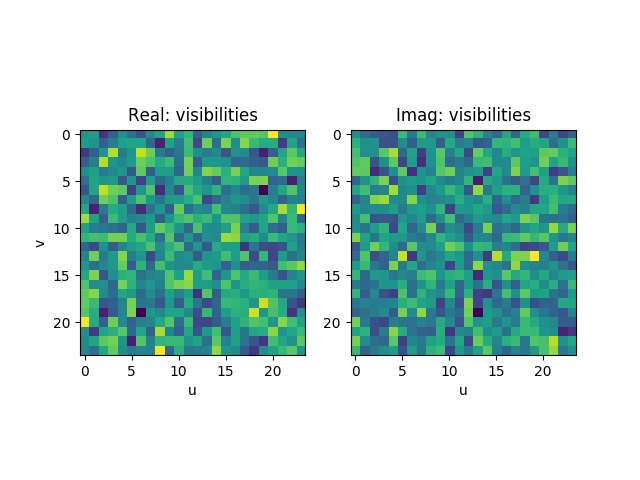
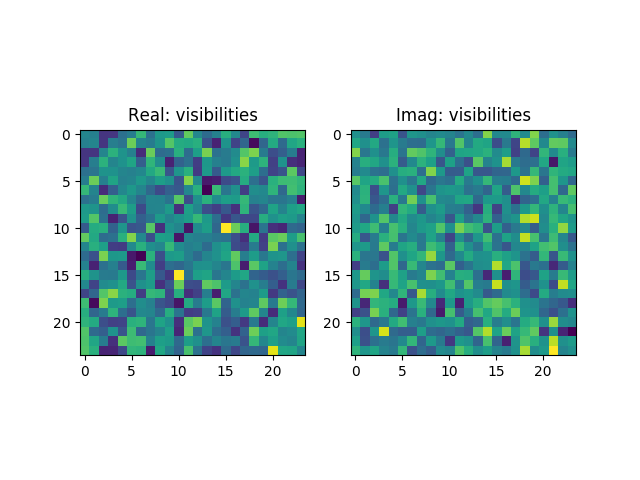
image still green, now using visibilities however

Changed region(s): [[0.125, 0.25, 0.5, 0.75], [0.5312, 0.25, 0.9062, 0.75]]

diff --git a/Pipeline.py b/Pipeline.py
@@ -87,7 +87,7 @@ class pipeline(object):
                     uv.append([[u_d, v_d]])
                     uv = np.array(uv)
                     all_uv.append(uv)
-                    uv_tracks = [[1]]
+                    uv_tracks = [[visibilities[i][j]]]
                     all_uv_tracks.append(uv_tracks)
                     b = layout[i] - layout[j]
                     u_d, v_d =  ut.get_uv_tracks(b, L, f, 0, L)
@@ -95,8 +95,9 @@ class pipeline(object):
                     uv.append([[u_d, v_d]])
                     uv = np.array(uv)
                     all_uv.append(uv)
-                    uv_tracks = [[1]]
+                    uv_tracks = [[visibilities[j][i]]]
                     all_uv_tracks.append(uv_tracks)
+            print(uv_tracks)
             ut.image(uv, uv_tracks, cell_size, cos, 0, res, "TART")
 
 

diff --git a/Utilities.py b/Utilities.py
@@ -14,13 +14,10 @@ def draw_matrix(matrix):
     plt.subplot(121)
     plt.set_cmap('viridis')
     plt.imshow(matrix.real)
-    plt.xlabel("u")
-    plt.ylabel("v")
     plt.title("Real: visibilities")
 
     plt.subplot(122)
     plt.imshow(matrix.imag)
-    plt.xlabel("u")
     plt.title("Imag: visibilities")
     plt.savefig('Plots/Antenna_Visibilities.png', transparent=True)
     plt.close()
